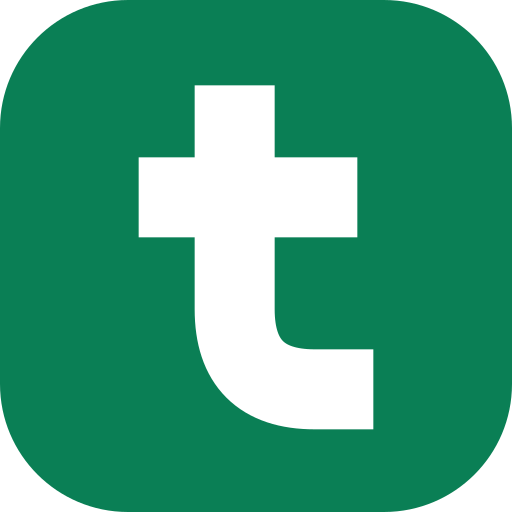
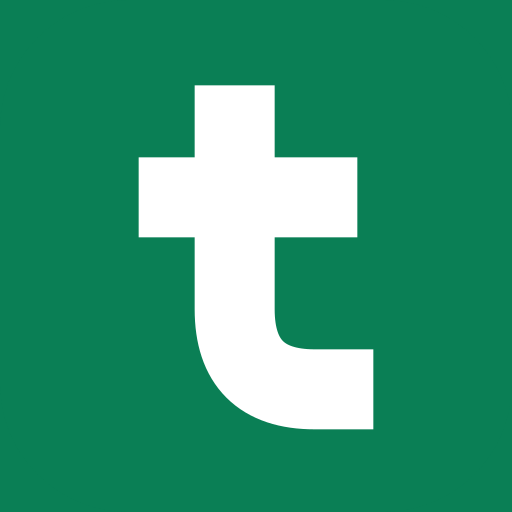
Arregla el icono del splash, mayúsculas en la compra y la Entrada vacía
- Los iconos de la app ya no tienen las esquinas transparentes: en el
  splash del móvil se veía un borde claro alrededor del logo.
- Los artículos de la compra empiezan en mayúscula, salvo marcas como
  «iPhone» o los que empiezan por un número.
- Los subtítulos ponen cada frase en su propia línea.
- En Entrada, si solo quedan completadas, sale el mensaje compacto de los
  proyectos en vez del dibujo con las completadas debajo.

diff --git a/src/components/TaskApp.tsx b/src/components/TaskApp.tsx
@@ -75,6 +75,7 @@ import Logo from "./Logo";
 import PageHeader from "./PageHeader";
 import ProjectDialog from "./ProjectDialog";
 import ProjectTree from "./ProjectTree";
+import { Sentences } from "./Sentences";
 import SetupScreen from "./SetupScreen";
 import ShoppingPanel, { ShoppingNotice, useShopping } from "./ShoppingPanel";
 import TaskDialog, { type TaskDraft } from "./TaskDialog";
@@ -1107,8 +1108,10 @@ function Tasks({ space }: { space: Space }) {
             {loaded && !doneView && roots.length === 0 && !viewHasEvents && (
               sel.kind === "view" && sel.view !== "inbox" ? (
                 <EmptyFilter view={sel.view} />
-              ) : sel.kind === "view" ? (
+              ) : sel.kind === "view" && doneHere === 0 ? (
                 <EmptyInbox />
+              ) : sel.kind === "view" ? (
+                <p className="py-16 text-center text-muted">No queda nada pendiente en Entrada.</p>
               ) : label ? (
                 <p className="py-16 text-center text-muted">Ninguna tarea pendiente lleva esta etiqueta.</p>
               ) : (
@@ -1117,9 +1120,10 @@ function Tasks({ space }: { space: Space }) {
             )}
 
             {loaded && doneView && list.length === 0 && (
-              <p className="py-16 text-center text-muted">
-                Aún no has completado nada en {spaceLabel}. Lo que completes aparecerá aquí.
-              </p>
+              <Sentences
+                className="py-16 text-center text-muted"
+                text={`Aún no has completado nada en ${spaceLabel}. Lo que completes aparecerá aquí.`}
+              />
             )}
 
             {doneView ? (

diff --git a/src/components/ShoppingPanel.tsx b/src/components/ShoppingPanel.tsx
@@ -17,6 +17,7 @@ import {
   fetchSectionMemory,
   finishShopping,
   insertItem,
+  itemName,
   invitedHouseholdIfMember,
   isListLimit,
   inviteInfo,
@@ -244,8 +245,9 @@ export function useShopping(userId: string | null | undefined) {
     },
 
     // Devuelve sin añadir (y avisa) si ya está pendiente en esta lista.
-    add(name: string) {
+    add(typed: string) {
       if (!current || !userId) return;
+      const name = itemName(typed);
       const dup = currentItems.find((i) => !i.checked && i.name.toLocaleLowerCase("es") === name.toLocaleLowerCase("es"));
       if (dup) {
         const who = dup.addedBy && dup.addedBy !== userId ? memberName(dup.addedBy) : undefined;
@@ -274,7 +276,8 @@ export function useShopping(userId: string | null | undefined) {
     },
 
     // learn: la sección se ha elegido a mano, así que se recuerda para la próxima vez.
-    save(item: ShoppingItem, c: ItemChanges, learn = false) {
+    save(item: ShoppingItem, changes: ItemChanges, learn = false) {
+      const c = { ...changes, name: itemName(changes.name) };
       setItems((prev) => prev.map((x) => (x.id === item.id ? { ...x, ...c } : x)));
       sync(updateItem(item.id, c));
       const key = itemKey(c.name);

diff --git a/src/components/AuthScreen.tsx b/src/components/AuthScreen.tsx
@@ -4,6 +4,7 @@ import Link from "next/link";
 import { type CSSProperties, useState } from "react";
 import { supabase } from "@/lib/supabase";
 import Logo from "./Logo";
+import { Sentences } from "./Sentences";
 import { BackIcon, CheckIcon } from "./icons";
 
 const ERRORS: Record<string, string> = {
@@ -85,9 +86,10 @@ export default function AuthScreen() {
             <h1 className="text-2xl font-extrabold tracking-[-0.02em]">
               {mode === "in" ? "Inicia sesión" : "Crea tu cuenta"}
             </h1>
-            <p className="text-[15px] text-ink-soft">
-              {mode === "in" ? "Hola de nuevo. Entra para seguir con tus tareas." : "Empieza gratis: solo necesitas un correo."}
-            </p>
+            <Sentences
+              className="text-[15px] text-ink-soft"
+              text={mode === "in" ? "Hola de nuevo. Entra para seguir con tus tareas." : "Empieza gratis: solo necesitas un correo."}
+            />
           </div>
           <input
             type="email"

diff --git a/src/components/EmptyInbox.tsx b/src/components/EmptyInbox.tsx
@@ -2,6 +2,8 @@
 // una bandeja de entrada con cara, flotando y contenta de estar despejada.
 // Usa los colores del espacio (--accent, --mark…), así sirve en claro, oscuro, Personal y Trabajo.
 
+import { Sentences } from "./Sentences";
+
 export function EmptyInbox() {
   return (
     <div className="flex flex-col items-center gap-4 py-14 text-center">
@@ -39,7 +41,7 @@ export function EmptyInbox() {
 
       <div className="flex flex-col gap-1">
         <p className="text-lg font-extrabold tracking-[-0.01em]">Entrada despejada</p>
-        <p className="text-sm text-muted">Todo está en su sitio. Lo que apuntes sin proyecto llegará aquí.</p>
+        <Sentences className="text-sm text-muted" text="Todo está en su sitio. Lo que apuntes sin proyecto llegará aquí." />
       </div>
     </div>
   );

diff --git a/src/lib/shopping.ts b/src/lib/shopping.ts
@@ -51,10 +51,19 @@ type ItemRow = {
   created_at: string;
 };
 
+// El nombre de un artículo empieza en mayúscula («leche» → «Leche»), salvo que la
+// primera palabra ya lleve mayúsculas por dentro, como una marca («iPhone», «eBay»).
+export function itemName(raw: string) {
+  const name = raw.trim();
+  const first = name.split(/\s/)[0];
+  if (/\p{Lu}/u.test(first.slice(1))) return name;
+  return name.charAt(0).toLocaleUpperCase("es") + name.slice(1);
+}
+
 export const itemFromRow = (r: ItemRow): ShoppingItem => ({
   id: r.id,
   householdId: r.household_id,
-  name: r.name,
+  name: itemName(r.name),
   quantity: r.quantity ?? undefined,
   note: r.note ?? undefined,
   section: isSectionId(r.section) ? r.section : undefined,

diff --git a/src/components/EmptyFilter.tsx b/src/components/EmptyFilter.tsx
@@ -1,4 +1,5 @@
 import type { View } from "@/lib/tasks";
+import { Sentences } from "./Sentences";
 
 // Estado vacío de los filtros (Hoy y Próximo): un calendario con cara.
 // Hoy: contento, con destellos. Próximo: echándose una siesta.
@@ -70,7 +71,7 @@ export function EmptyFilter({ view }: { view: Exclude<View, "inbox"> }) {
 
       <div className="flex flex-col gap-1">
         <p className="text-lg font-extrabold tracking-[-0.01em]">{title}</p>
-        <p className="text-sm text-muted">{text}</p>
+        <Sentences className="text-sm text-muted" text={text} />
       </div>
     </div>
   );

diff --git a/src/components/Sentences.tsx b/src/components/Sentences.tsx
@@ -1,0 +1,13 @@
+// Un subtítulo con cada frase en su propia línea: «Todo está en su sitio.» / «Lo que apuntes…».
+export function Sentences({ text, className = "" }: { text: string; className?: string }) {
+  const sentences = text.split(/(?<=[.!?…])\s+/).filter(Boolean);
+  return (
+    <p className={className}>
+      {sentences.map((s, i) => (
+        <span key={i} className="block">
+          {s}
+        </span>
+      ))}
+    </p>
+  );
+}
